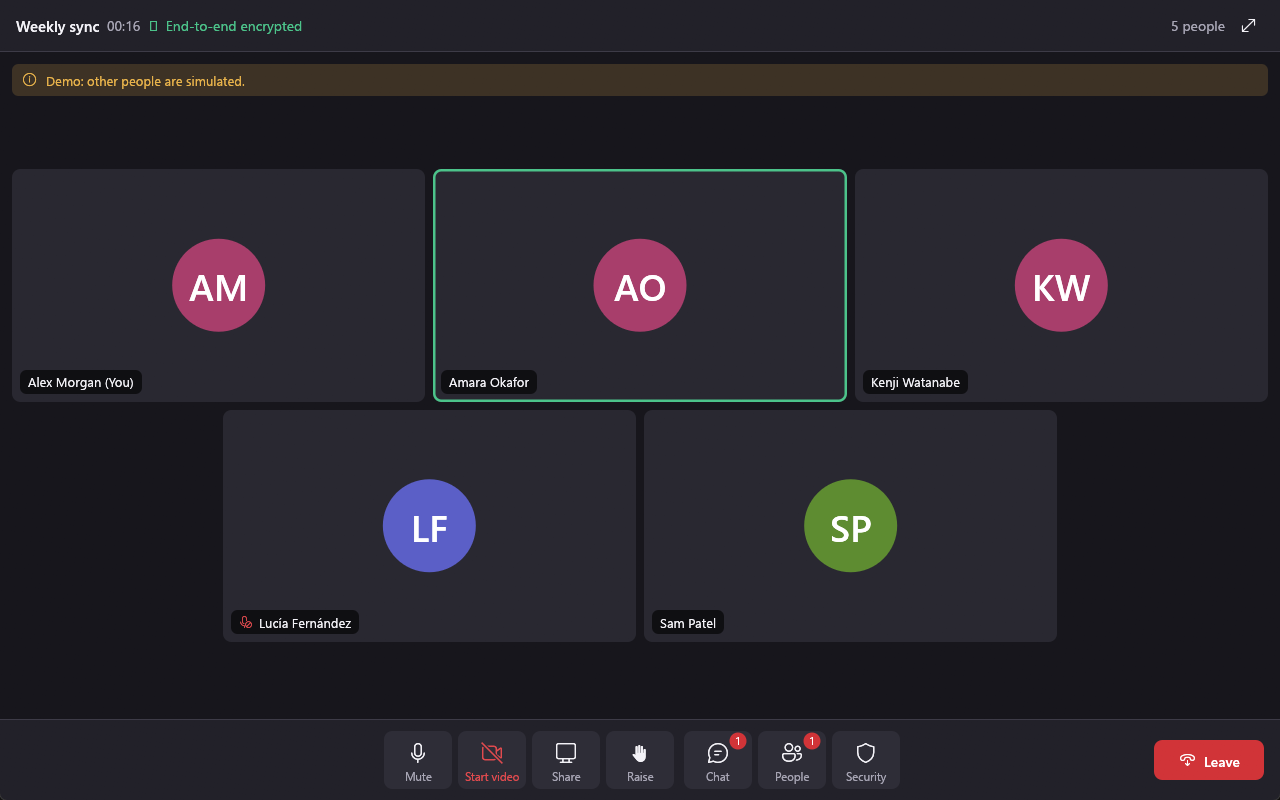
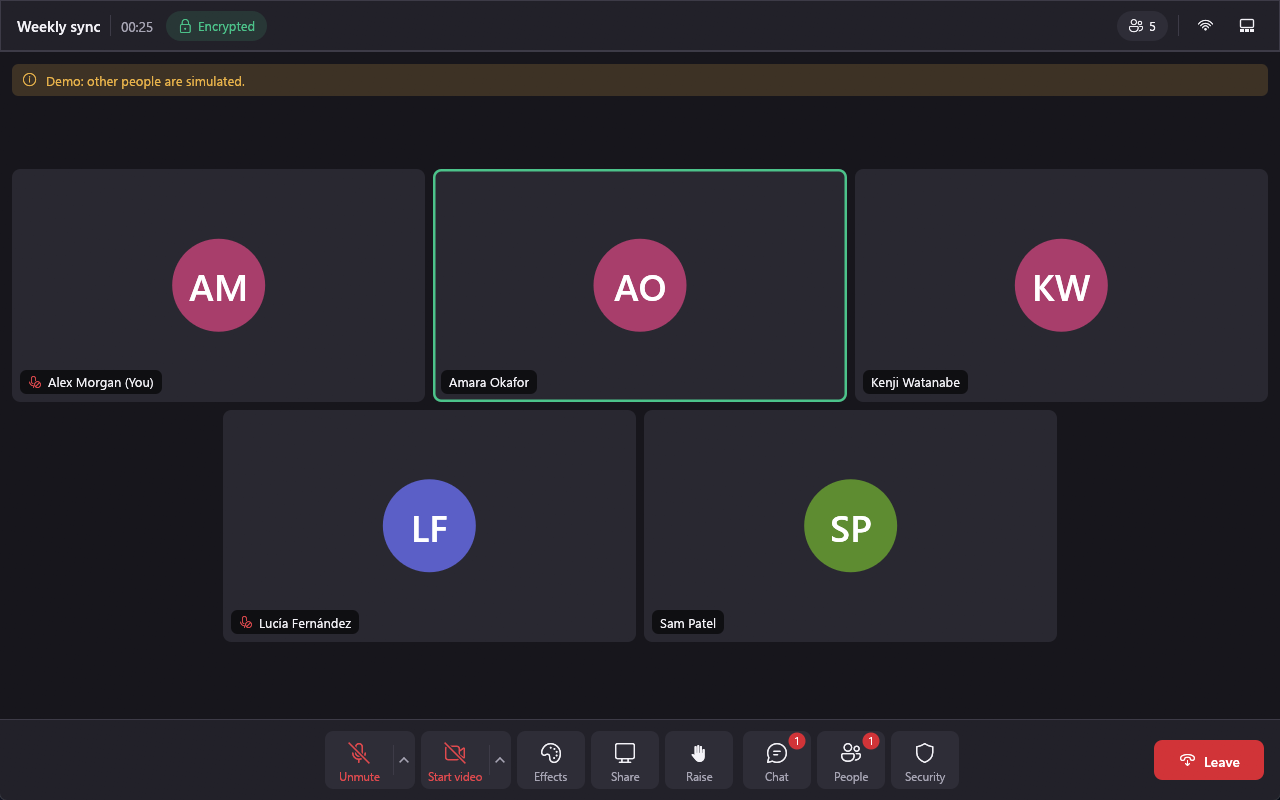
README: fresh screenshots, Data use and Hide my address
All four screenshots retaken from a Release build of main in the demo call (new home
screen, call bar, People and Security panels). Adds a short section for mobile data and
slow networks with the Data use menu and Hide my address, plus a Share your screen
feature line. The Data use image is cropped to that part of the camera menu so no real
device names appear.

diff --git a/README.md b/README.md
@@ -32,17 +32,33 @@ call, and none of them can see inside it.
   Bigger calls can use a forwarder that sends each person only the video size they need.
 - **You decide who joins.** Invites are signed and single use. The host admits or declines each
   person from the lobby.
-- **Check who you are talking to.** Each pair of people has a safety number. Compare it out
-  loud once, mark them verified, and it still holds next call.
+- **Check who you are talking to.** Each pair of people has a safety number. Swap codes once
+  through an app you already trust, or compare them by hand, and it still holds next call.
+- **Share your screen.** Share a screen, an app or part of one, sealed end to end like your
+  camera. Filters and background blur work before and during a call.
 - **No accounts, no telemetry.** Veil sends nothing to its authors. Every server address comes
   from you.
 - **Try it alone.** "Demo call" on the home screen shows a simulated call with no network.
 
 | Home | Lobby and people | Safety numbers |
 |---|---|---|
-| <img src="docs/images/home.png" alt="Home screen" width="270"> | <img src="docs/images/people.png" alt="People panel with someone waiting in the lobby" width="270"> | <img src="docs/images/security.png" alt="Security panel with safety numbers" width="270"> |
+| <img src="docs/images/home.png" alt="Home screen" width="270"> | <img src="docs/images/people.png" alt="People panel with someone waiting in the lobby" width="270"> | <img src="docs/images/security.png" alt="Security panel checking a code with one person" width="270"> |
 
 Screenshots are from the demo call. The people in them are simulated.
+
+### On mobile data or a slow network
+
+- **Data use.** Pick it before you join, or from the arrow beside the camera button during a
+  call. Auto (recommended) sends the best picture the link allows. Data saver sends one small
+  picture at about 150 kbit/s and sound at 16 kbit/s. Audio only turns your camera off and
+  sends sound at 16 kbit/s. Veil keeps your choice for the next call.
+- **Hide my address.** In Connection on the home screen. When you join a call, Veil reaches
+  everyone through the call's relay only, so the others never learn your IP address. Off by
+  default. [docs/TRANSPARENCY.md](docs/TRANSPARENCY.md) says what it does not hide.
+
+| Data use | Hide my address |
+|---|---|
+| <img src="docs/images/data-use.png" alt="Data use in the camera menu: Auto (recommended), Data saver, Audio only" width="310"> | <img src="docs/images/connection.png" alt="Connection settings with Hide my address ticked" width="400"> |
 
 ## Download
 
